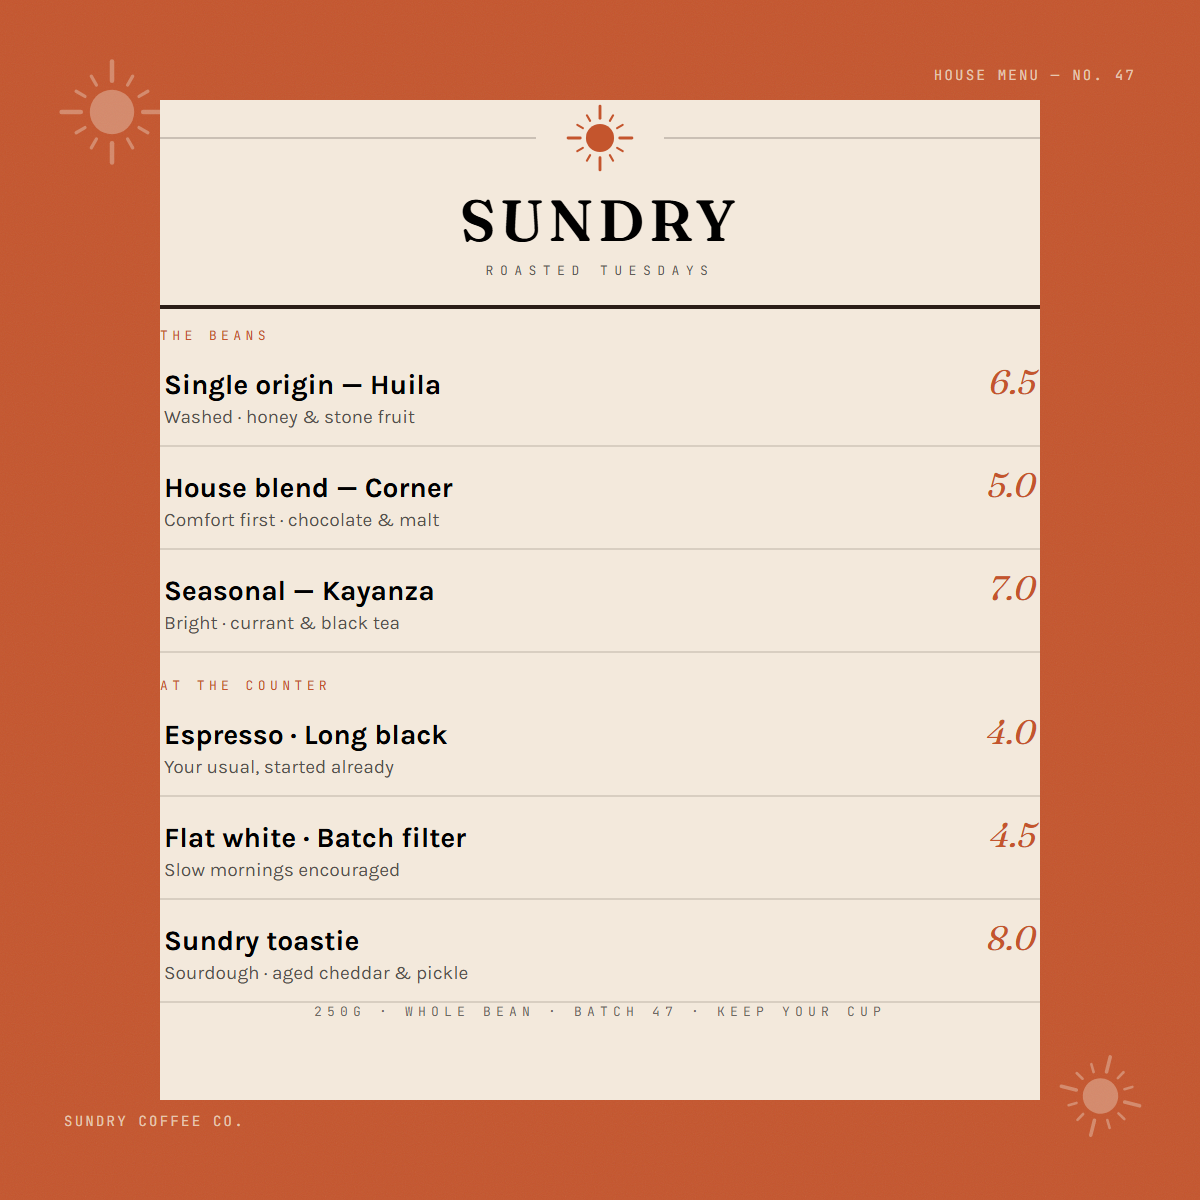
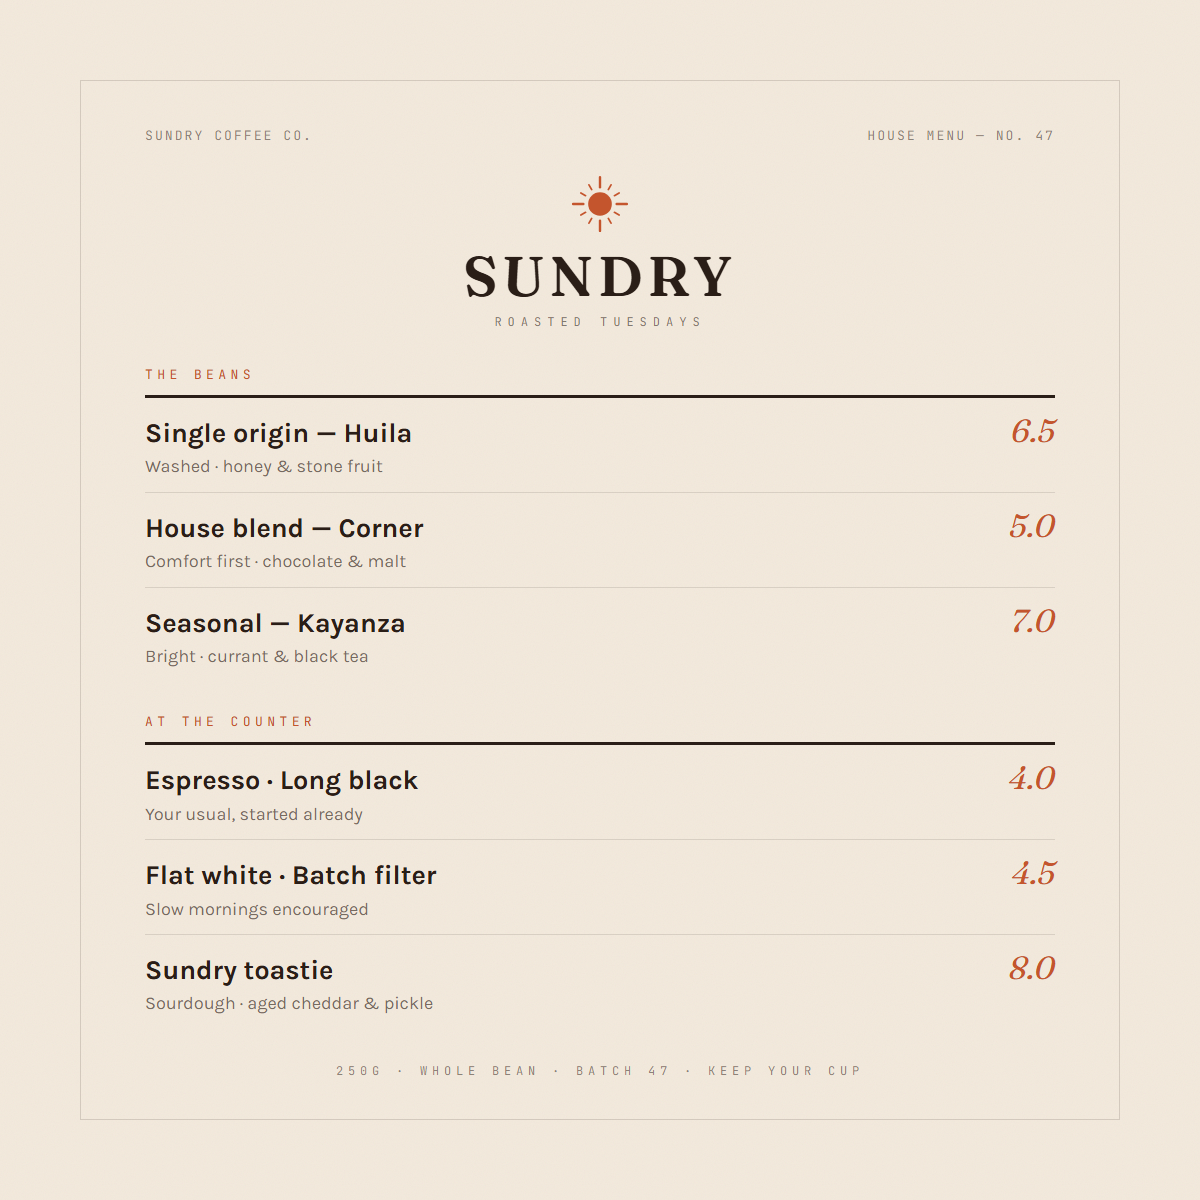
Sundry menu board redesign + Work branding parity with homepage
- specialty-coffee-application-v2: dropped the orange frame and the
  decorative sun corners; the menu is now printed full-bleed on house
  stock inside a hairline trim rule. Content was overflowing the old
  card (prices touched the edge, last row clipped, dead space under the
  footer) — vertical rhythm retuned so all six rows + footer fit with
  even margins on all four sides.
- /work "Selected branding" now lists the same four featured identities
  the homepage shows (was 2), so arriving from the homepage band no
  longer drops half the set into "More branding concepts".

diff --git a/app/work/page.tsx b/app/work/page.tsx
@@ -21,7 +21,14 @@ export const metadata: Metadata = {
 
 // Curated "selected" tiers — strongest work first, the rest under Explore more.
 const SELECTED_PRODUCT_IDS = ["averis-rcm-kit", "sop-quest"];
-const SELECTED_BRANDING_IDS = ["specialty-coffee-branding", "wellness-medspa-branding"];
+// Branding: the same four featured identities the homepage shows, so a
+// visitor arriving from /#branding sees the set they clicked through for.
+const SELECTED_BRANDING_IDS = [
+  "specialty-coffee-branding",
+  "boutique-hotel-branding",
+  "craft-beverage-branding",
+  "wellness-medspa-branding",
+];
 
 export default function WorkPage() {
   const selectedProducts = productWork.filter((p) => SELECTED_PRODUCT_IDS.includes(p.id));
